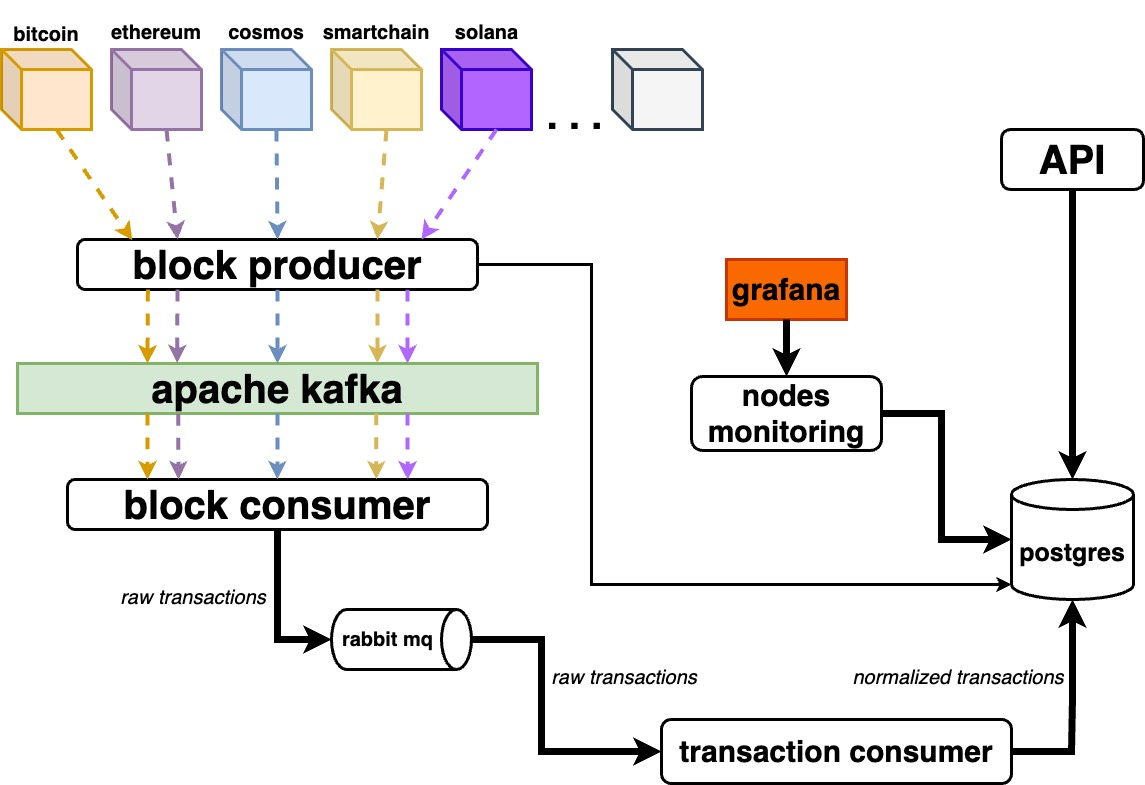
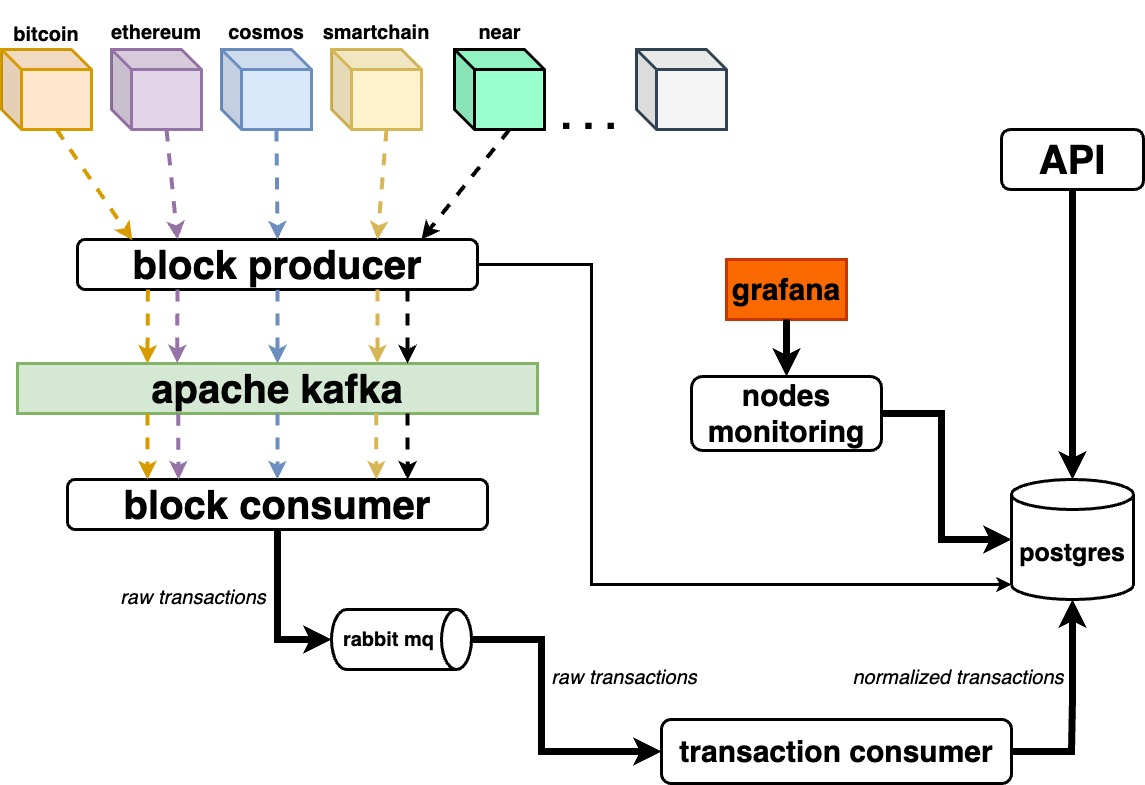
Update README.md and arch scheme

diff --git a/README.md b/README.md
@@ -2,7 +2,7 @@
 
 ## Overview
 
-Blockchain Indexer provides fast transaction indexing that can be used in explorers, crypto wallets, etc. It supports transaction parsing of the most popular blockchains: Bitcoin, Ethereum, Smartchain, Cosmos, Solana, Binance, and Near.
+Blockchain Indexer provides fast transaction indexing that can be used in explorers, crypto wallets, etc. It supports transaction parsing of the most popular blockchains: Ethereum, Smartchain, Cosmos, Binance, and Near.
 
 ## Architecture
 
@@ -32,16 +32,3 @@ docker-compose up
 - [Prometheus](http://localhost:9090)
 - [Push Gateway](http://localhost:9091)
 - [Rabbit MQ](http://localhost:15672)
-
-## TODO
-
-- Add block producer (kafka) ✅
-- Add block consumer (kafka) ✅
-- Add metrics ✅
-- Add Postgres ✅
-- Add nodes monitoring ✅
-- Add nodes backup mechanism ✅
-- Add queues with RabbitMQ for workers: Worker that saves txs in Postgres ✅
-- Add API ✅
-- Check if consumers are scalable ✅
-- Add more chains (fix Binance, add Solana, Bitcoin)
